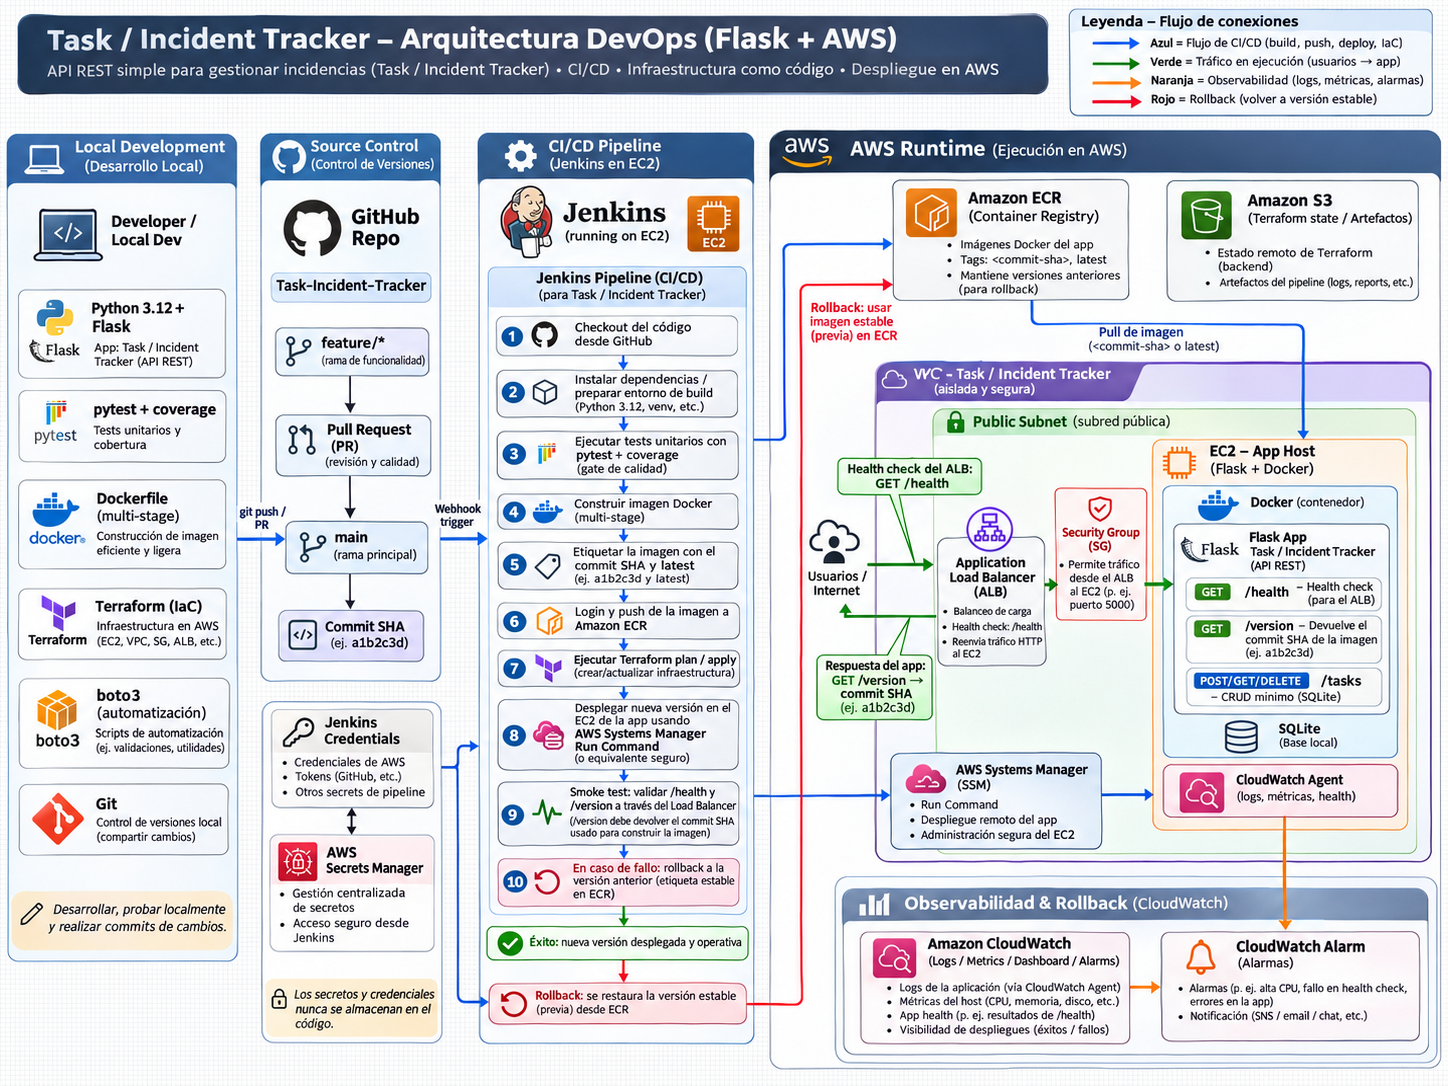
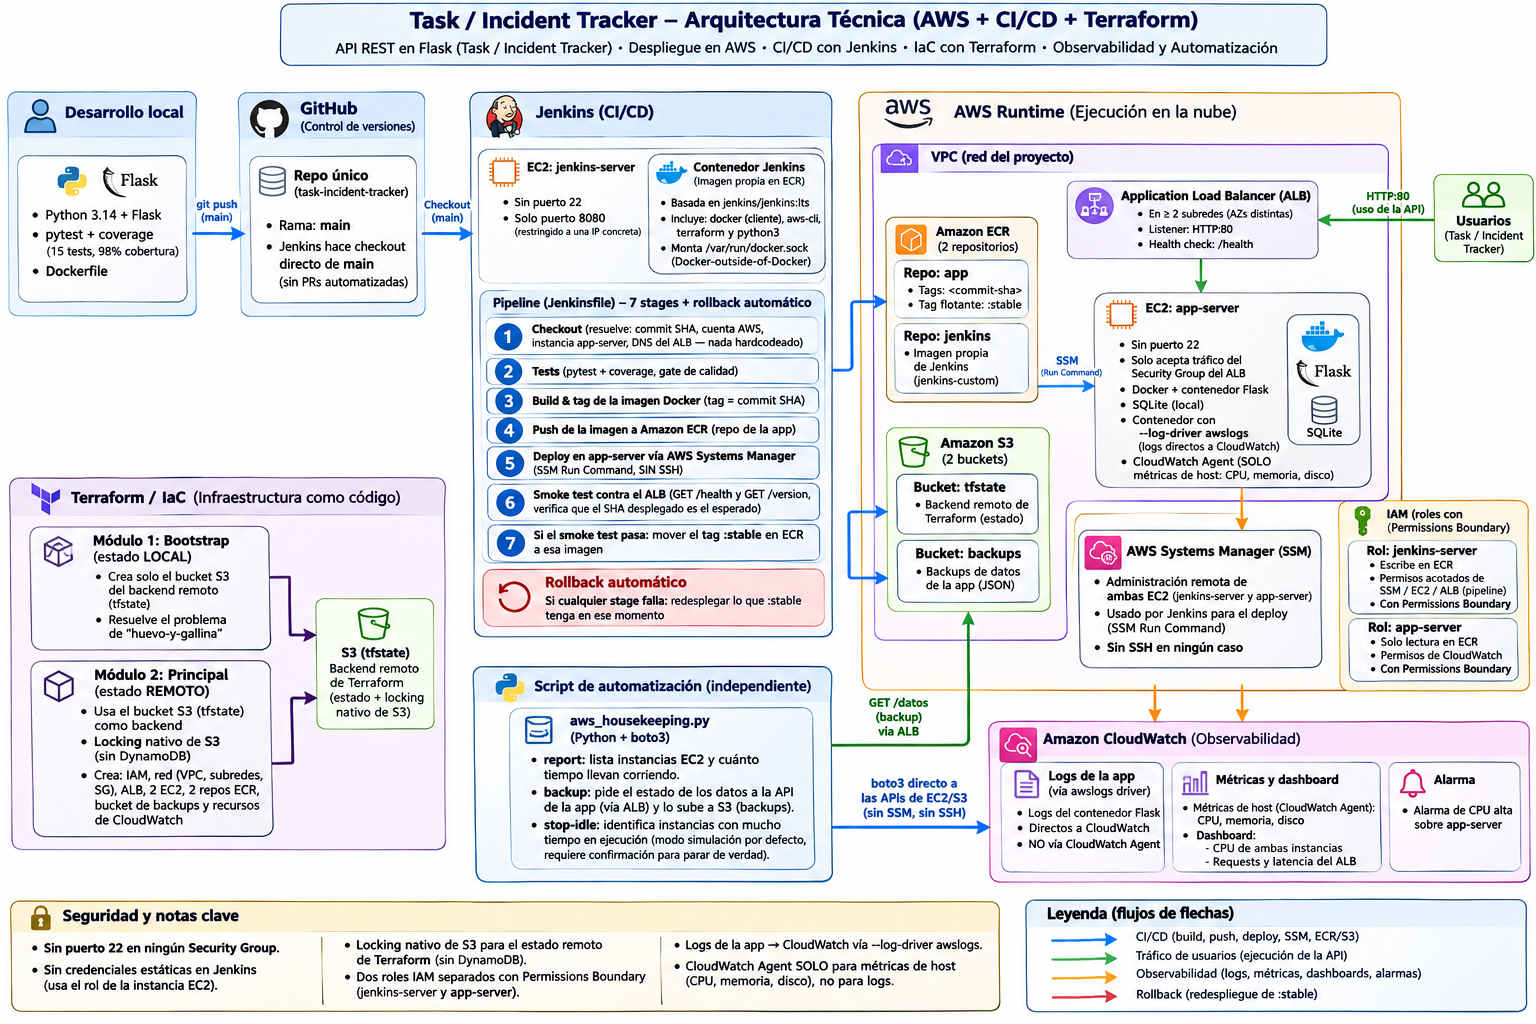
Replace architecture diagram with accurate version reflecting real implementation

diff --git a/README.md b/README.md
@@ -6,17 +6,12 @@ API REST mínima de gestión de incidencias, usada como base para construir un s
 
 ![Arquitectura DevOps Flask en AWS](docs/architecture-diagram.png)
 
-**Nota**: este diagrama es el diseño original, dibujado antes de construir el proyecto — sirve para la vista de pájaro, no como referencia exacta pieza por pieza. Durante la construcción, algunas decisiones evolucionaron respecto al plan inicial:
+**Dos matices frente al diagrama**, por si se comparan con el detalle de la implementación real:
 
-| En el diagrama | En la implementación final | Por qué |
-|---|---|---|
-| Dockerfile "multi-stage" | Dockerfile de una sola etapa | Las dependencias (Flask, Gunicorn) son Python puro sin compilación nativa; un segundo stage no reduce tamaño real |
-| AWS Secrets Manager | No implementado en v1 | La app no tiene secretos reales que guardar todavía |
-| Pipeline de 10 stages, incluye `terraform apply` | Pipeline de 7 stages + rollback automático, **sin** `terraform apply` | Darle a Jenkins permiso para tocar IAM/EC2/ALB rompería el mínimo privilegio de sus roles; la infraestructura se gestiona aparte, con una cadencia de cambio distinta a la de los despliegues de la app |
-| VPC propia aislada | VPC por defecto de la cuenta | Suficiente para el alcance de este proyecto; evita gestionar NAT Gateways/rutas adicionales sin necesidad real |
-| Rollback a "la versión anterior" (genérico) | Rollback al tag `:stable` en ECR, que solo se mueve cuando un despliegue pasa el smoke test | El rollback nunca depende de inspeccionar el estado del servidor remoto — siempre sabe a qué volver |
+- **VPC**: el diagrama agrupa todo bajo una caja "VPC (red del proyecto)" por claridad visual. En la implementación real se usa la **VPC por defecto de la cuenta**, no una VPC dedicada — suficiente para el alcance de este proyecto, evita gestionar NAT Gateways/rutas adicionales sin necesidad real.
+- **ECR y S3** aparecen dentro de esa caja de VPC en el diagrama por agrupación visual, pero son servicios **regionales** de AWS, no recursos que vivan dentro de una VPC (salvo que se usen VPC endpoints, que no es el caso aquí).
 
-El resto —flujo de CI/CD, ALB, despliegue vía SSM Run Command sin SSH, CloudWatch para observabilidad— se construyó tal cual se diseñó.
+El resto del diagrama —los 7 stages del pipeline, los dos roles IAM, los dos repos ECR, los dos buckets S3, el rollback al tag `:stable`, el flujo de logs/métricas— es fiel a la implementación real, no a un diseño idealizado.
 
 ---
 
